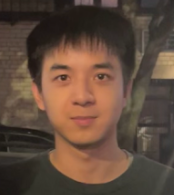
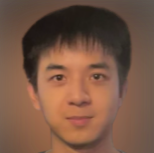
sync changes

diff --git a/index.html b/index.html
@@ -1,68 +1,34 @@
 <!DOCTYPE html>
 <html>
 <head>
-  <title>Artistic Image Gallery</title>
+  <title>Jiahang</title>
   <link rel="stylesheet" type="text/css" href="styles.css">
 </head>
 <body>
     <div class="profile">
-        <img class="profile-picture" src="images/profile.png">
-        <h1>John</h1>
+        <img class="profile-picture" src="images/profile.jpg">
+        <h1>Jiahang (Jay) Mao</h1>
         <nav>
           <a href="#gallery">Projects</a>
-          <a href="#contact">Contacts</a>
+          <a href="#about">README.md</a>
           <a href="#resume">Resume</a>
         </nav>
     </div>
     <div id="gallery-container" class="gallery-container">
         <h2>Projects</h2>
+        <p>About 3D computer graphics and VR</p>
         <div class="gallery">
             <div class="card">
-            <div class="image" style="background-image: url('images/image1.png');"></div>
-            <div class="description">
-                <h3 class="title">Title placeholder</h3>
-                <div class="tags">
-                    <span class="tag cplusplus">C++</span>
-                    <span class="tag opengl">OpenGL</span>
+                <div class="image" style="background-image: url('images/image1.png');">
                 </div>
+                <div class="description">
+                    <h3 class="title">Title placeholder</h3>
                     <p class="short-description">Short description placeholder.</p>
                     <p><a href="www.ai.com">link to project demo</a> | <a href="www.code.com">link to code sample</a></p>
-                </div>
-            </div>
-            <div class="card">
-            <div class="image" style="background-image: url('images/image2.png');"></div>
-            <div class="description">
-                <h3 class="title">Title placeholder</h3>
-                <div class="tags">
-                    <span class="tag cplusplus">C++</span>
-                    <span class="tag opengl">OpenGL</span>
-                </div>
-                    <p class="short-description">Short description placeholder.</p>
-                    <p><a href="www.ai.com">link to project demo</a> | <a href="www.code.com">link to code sample</a></p>
-                </div>
-            </div>
-            <div class="card">
-            <div class="image" style="background-image: url('images/image3.png');"></div>
-            <div class="description">
-                <h3 class="title">Title placeholder</h3>
-                <div class="tags">
-                    <span class="tag cplusplus">C++</span>
-                    <span class="tag opengl">OpenGL</span>
-                </div>
-                    <p class="short-description">Short description placeholder.</p>
-                    <p><a href="www.ai.com">link to project demo</a> | <a href="www.code.com">link to code sample</a></p>
-                </div>
-            </div>
-            <div class="card">
-            <div class="image" style="background-image: url('images/image1.png');"></div>
-            <div class="description">
-                <h3 class="title">Title placeholder</h3>
-                <div class="tags">
-                    <span class="tag cplusplus">C++</span>
-                    <span class="tag opengl">OpenGL</span>
-                </div>
-                    <p class="short-description">Short description placeholder.</p>
-                    <p><a href="www.ai.com">link to project demo</a> | <a href="www.code.com">link to code sample</a></p>
+                    <div class="tags">
+                        <span class="tag cplusplus">C++</span>
+                        <span class="tag opengl">OpenGL</span>
+                    </div>
                 </div>
             </div>
         </div>
@@ -73,31 +39,40 @@
     <embed src="files/resume.pdf" type="application/pdf" width="600" height="500">
   </div>
 
-  <div id="contact" class="contact">
-    <h2>Contact Info</h2>
+  <div id="about" class="about">
+    <h2>README.md</h2>
+    <p>Hi, I'm Jay. I'm currently purusing a master in computer graphics at University of Pennsylvania. I graduated from University of Michigan as an undergraduate major in Computer Science and Cognitive Science.
+    <p>I'm broadly interested in building interactive photo-realistic 3D applications at scale that can deliver value to people's life (and gaining proof for us living in a simulation). </p>
+        
+    <p>I'm looking for internship and part-time opportunities in the field of 3D computer graphics / gaming / VR. Feel free to reach out if you need help with your project or want to debate the simulation thing.</p>
+    <p>Contact Info</p>
     <p>Phone: 123-456-7890</p>
     <p>Email: john@example.com</p>
     <p><a href="https://www.linkedin.com/in/john">LinkedIn</a></p>
   </div>
+
+  <footer id="footer" class="footer">
+    &copy; 2023 Jay Mao. Created with GPT4.
+</footer>
 
 </body>
 
 <script>
     const sections = {
       gallery: document.querySelector('.gallery-container'),
-      contact: document.querySelector('.contact'),
+      about: document.querySelector('.about'),
       resume: document.querySelector('.resume'),
     };
   
     const originalDisplays = {
       gallery: getComputedStyle(sections.gallery).display,
-      contact: getComputedStyle(sections.contact).display,
+      about: getComputedStyle(sections.about).display,
       resume: getComputedStyle(sections.resume).display,
     };
   
     const links = {
       gallery: document.querySelector('a[href="#gallery"]'),
-      contact: document.querySelector('a[href="#contact"]'),
+      about: document.querySelector('a[href="#about"]'),
       resume: document.querySelector('a[href="#resume"]'),
     };
   

diff --git a/styles.css b/styles.css
@@ -1,4 +1,8 @@
 body {
+    font-family: 'Verdana', sans-serif;
+}
+
+body {
     display: flex;
     flex-direction: column;
     align-items: center;
@@ -18,17 +22,22 @@ body {
   
 .profile-picture {
 border-radius: 50%;
-width: 200px;
-height: 200px;
+width: 150px;
+height: 150px;
 }
 
+.footer{
+    text-align:center; 
+    padding:20px;
+    margin: 100px;
+}
 
 nav {
     display: flex;
     flex-direction: row;
     justify-content: center;
-    gap: 15px;
-    margin-bottom: 50px;
+    gap: 25px;
+    margin-bottom: 1px;
 }
 
 nav a {
@@ -41,6 +50,7 @@ nav a {
     flex-direction: column;
     align-items: center;
     justify-content: center;
+    margin-bottom: 200px;
 }
 
 .gallery {
@@ -59,7 +69,7 @@ nav a {
     background: white;
     border-radius: 10px;
     overflow: hidden;
-    transition: transform 0.15s ease;
+    transition: transform 0.2s ease;
     height: 400px; /* calculate height based on aspect ratio */
     width: 350px;
 }
@@ -69,12 +79,12 @@ nav a {
     height: 100%;
     background-size: cover;
     background-position: center;
-    transition: height 0.15s ease;
+    transition: height 0.2s ease;
 }
 
 .card:hover .image {
-    height: 70%;
-    transition: height 0.15s ease;
+    height: 50%;
+    transition: height 0.2s ease;
 }
 
 .description {
@@ -82,18 +92,18 @@ nav a {
     justify-content: space-between;
     height: 0;
     padding: 0;
-    transition: height 0.15s ease, padding 0.15s ease;
+    transition: height 0.2s ease, padding 0.2s ease;
     overflow: hidden;
 }
 
 .card:hover .description {
-    height: 30%;
+    height: 50%;
     padding: 10px;
-    transition: height 0.15s ease, padding 0.15s ease;
+    transition: height 0.2s ease, padding 0.2s ease;
 }
 
 .title {
-    margin: 0;
+    margin: 5px;
 }
 
 .tags {
@@ -102,21 +112,21 @@ nav a {
 }
 
 .tag {
-    padding: 2px 8px;
+    padding: 2px 2px;
     border-radius: 4px;
     color: white;
 }
 
 .cplusplus {
-    background-color: #ff6347;
+    background-color: #f78181;
 }
 
 .opengl {
-    background-color: #1e90ff;
+    background-color: #66b4ff;
 }
 
 .short-description {
-    margin-bottom: 3px;
+    margin-bottom: 0px;
 }
 
 .resume { 
@@ -126,12 +136,13 @@ nav a {
     align-items: center;
 }
 
-.contact { 
+.about { 
     display: flex;
     flex-direction: column;
     align-items: center;
+    width: 600px;
 }
 
-.contact, .resume {
+.about, .resume {
     transition: all 0.5s;
   }
